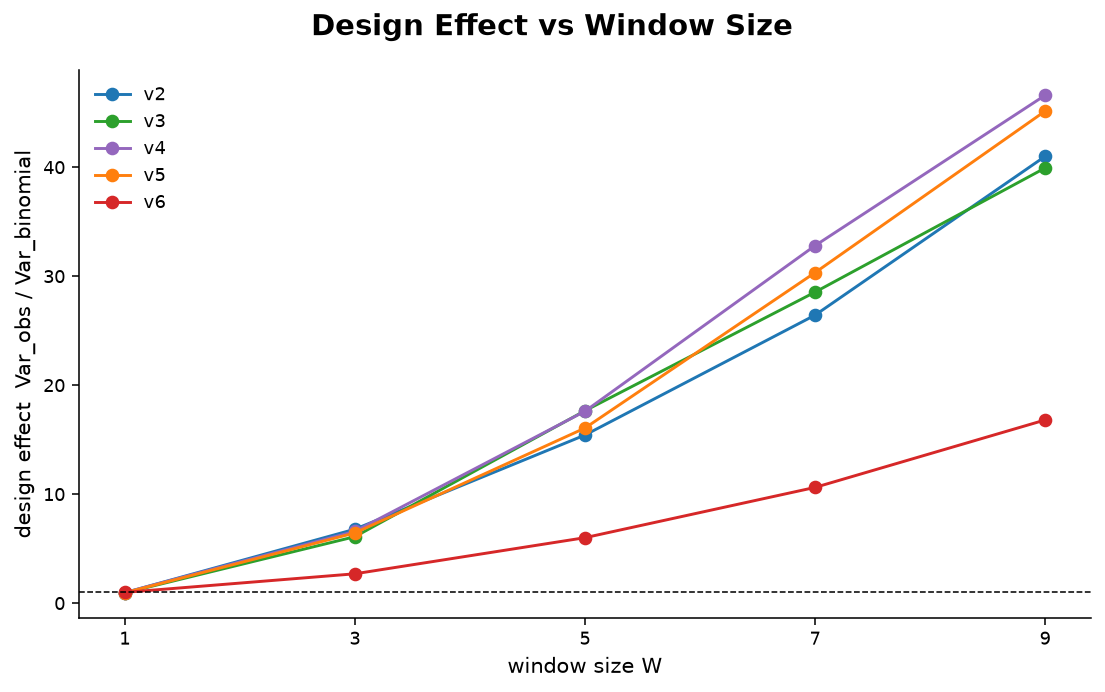
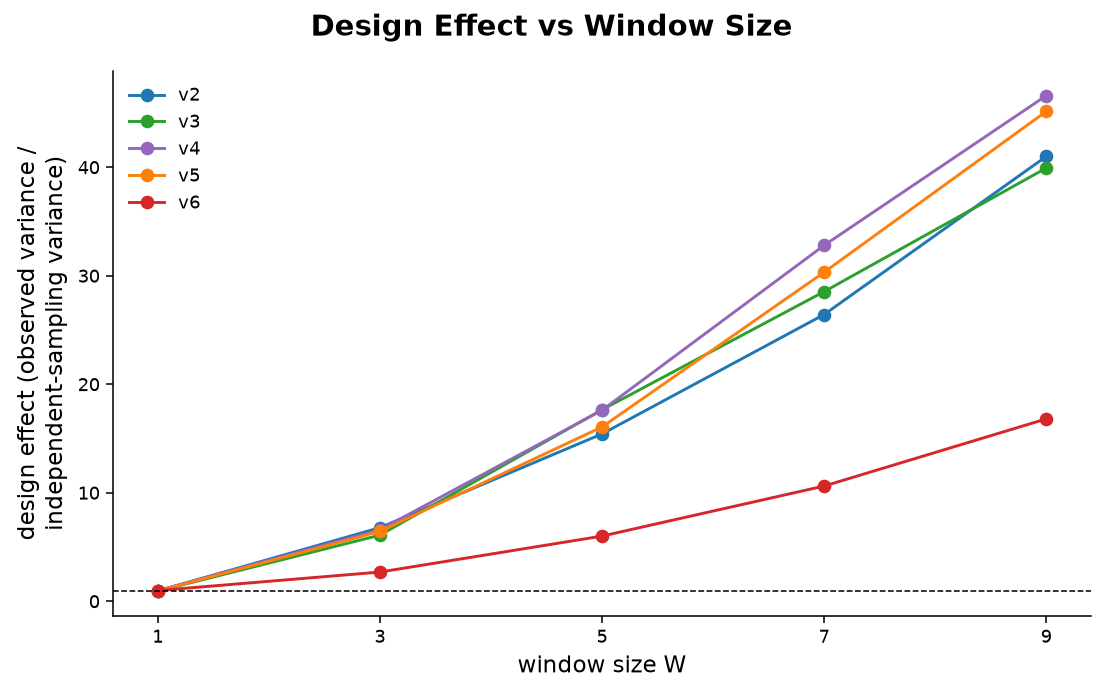
Figure 3.8: descriptive underscore-free y-axis label
Replace "design effect  Var_obs / Var_binomial" with a wrapped, descriptive label
"design effect (observed variance / independent-sampling variance)".

diff --git a/scripts/sampling_experiment_ABCD.py b/scripts/sampling_experiment_ABCD.py
@@ -669,7 +669,8 @@ def _make_plots(names, versions):
         s = g[g.version == v]
         ax.plot(s.W, s.design_effect, "o-", color=vpal[v], label=v)
     ax.axhline(1, ls="--", color="k", lw=0.8); ax.set_xticks(WS)
-    ax.set_xlabel("window size W", fontsize=11); ax.set_ylabel("design effect  Var_obs / Var_binomial", fontsize=11)
+    ax.set_xlabel("window size W", fontsize=12)
+    ax.set_ylabel("design effect (observed variance /\nindependent-sampling variance)", fontsize=12)
     ax.tick_params(labelsize=9)
     fig.suptitle("Design Effect vs Window Size", fontsize=15, fontweight="bold")
     ax.legend(fontsize=9, frameon=False); _classic(ax)
